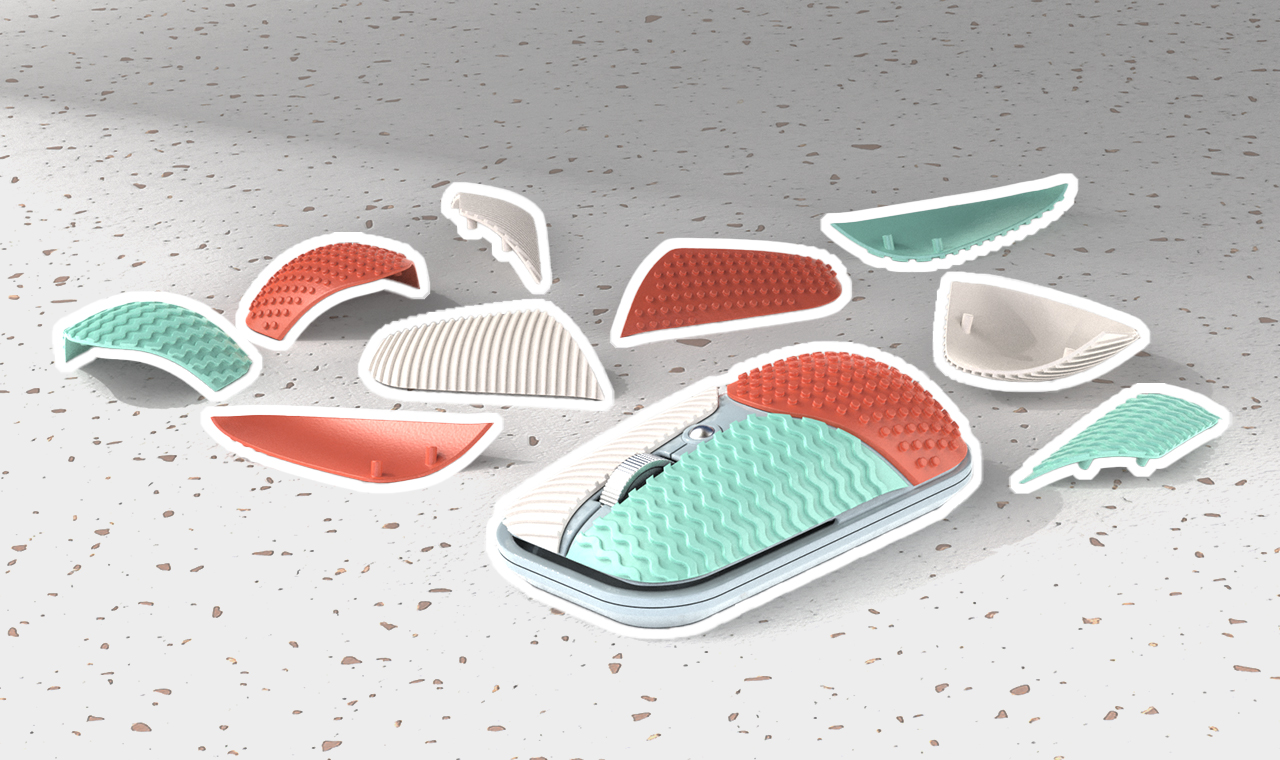
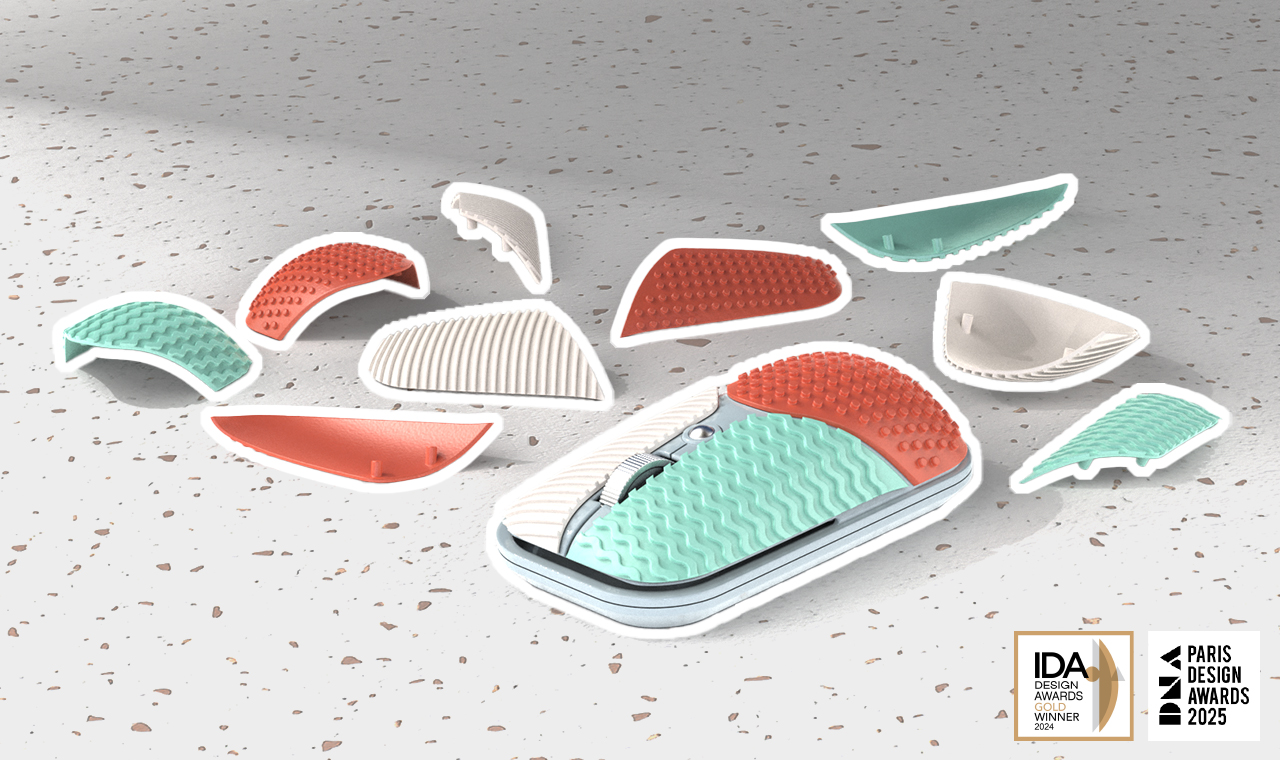
Updated Attenta

Changed region(s): [[0.7812, 0.8171, 1.0, 0.9987]]

diff --git a/index.html b/index.html
@@ -83,7 +83,7 @@
 </div>
 
 <div class="hook">
-    <span class="hook-text">This is Ming, an industrial designer, engineering enthusiast, and design researcher. <br>
+    <span class="hook-text">Ming, an industrial designer, engineering enthusiast, and design researcher. <br>
         Work experience <em>@Nova Design @Buer Brand @Brown Design Engineering</em></br>
         Project experience include <em>Samsung, Midea Group, and Dick's Sporting Goods</em>.
     </span>
@@ -320,6 +320,25 @@ Research, AI, and Visualization Works
 </div>
 
 
+<div class="bigtitle">
+    <p>
+Awards
+    </p>
+    </div>
+
+<div class="introduction">
+    <p>
+Gold International Design Awards (IDA) <br>
+Paris Design Awards (DNA) Medical Category & Electronics Category <br>
+Human Computer Interaction International Design Competition (HCII) Winner <br>
+ACM SIGCHI Tangible, Embedded and Embodied Interaction International Design Competition (TEI) Winner <br>
+SPUR Fund Award in Design Research <br>
+RISD Graduate Fellowship Award<br>
+UC Berkeley Art Department Graduate Excellence Award
+    </p>
+    </div>
+
+<img src="image/Honors.jpg" alt=About-Honors class="First-Picture"/>
 
 <!-- Introduction Text -->
 <div class="introduction">
